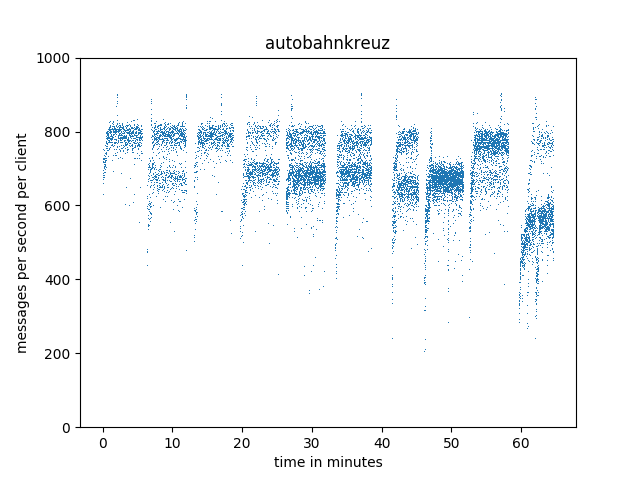
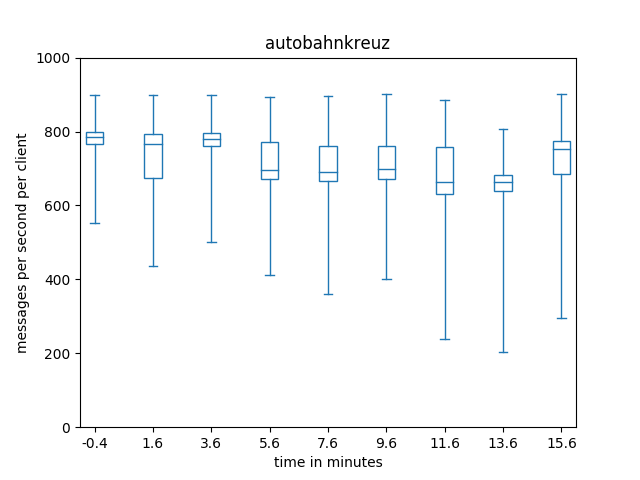
Add new scaling out plot and rearrange chapters

diff --git a/scenarios/scaling-out/plot.py b/scenarios/scaling-out/plot.py
@@ -6,18 +6,50 @@ import glob
 import numpy as np
 import matplotlib.pyplot as plt
 
+def set_box_color(bp, color):
+    plt.setp(bp['boxes'], color=color)
+    plt.setp(bp['boxes'], fill=False)
+    plt.setp(bp['whiskers'], color=color)
+    plt.setp(bp['caps'], color=color)
+    plt.setp(bp['medians'], color=color)
+
 path = sys.argv[1]
 
 for idx, filename in enumerate(glob.glob(path + "-*.csv")):
     router = re.match(r".*-(\w+).csv", filename).group(1)
 
     data = np.genfromtxt(filename, delimiter=',', names=['name', 'time', 'msgs'], dtype=None)
-    t0 = min(data['time'])
-    times = np.array([(t - t0) / 1000 / 60 for t in data['time']])
-    plt.clf()
-    plt.title(router)
-    plt.xlabel('time in minutes')
-    plt.ylabel('messages per second per client')
-    plt.ylim((0, 1000))
-    plt.plot(times, data['msgs'], label=router, marker=',', linestyle='', color="C{}".format(idx))
-    plt.savefig("{}-{}.png".format(path, router))
+    data = np.sort(data, order='time')
+    segments = [0]
+    last_time = data['time'][0]
+    for i, time in enumerate(data['time']):
+        if time - last_time > 5000:
+            segments.append(i)
+        last_time = time
+    segments.append(len(data['time']) - 1)
+    segments = list(zip(segments[:-1], segments[1:]))
+    segments = np.array([data[start:end]['msgs'] for start, end in segments])
+
+    bplot = plt.boxplot(
+        segments,
+        positions=np.array(range(len(segments))) * 2.0 + (-0.5 + 0.5 * idx),
+        sym='x',
+        vert=True,
+        patch_artist=True,
+        widths=0.45,
+        whis=[0, 100]
+    )
+    set_box_color(bplot, "C{}".format(idx))
+
+plt.plot([], c='C0', label='Autobahnkreuz')
+plt.plot([], c='C1', label='Emitter')
+plt.legend()
+
+ticks = ["{}:{}".format(i, i*2) for i in range(1, 11)]
+plt.xticks(range(0, len(ticks) * 2, 2), ticks)
+plt.xlim(-2, len(ticks) * 2)
+plt.title('messages per second for several router and client configurations')
+plt.xlabel('router instances : clients connected')
+plt.ylabel('messages per second per client')
+plt.ylim((0, 1000))
+plt.savefig("{}.png".format(path))

diff --git a/paper/paper.md b/paper/paper.md
@@ -1,42 +1,20 @@
 # Introduction
 
-For modern web pages the importance of realtime data delivery rose during the last years. This created new requirements for web applications especially where server rendered content was previously used[@RFC6202]. Technologies like AJAX, JSON-RPC, socket.io, WebSockets, and many more arose to fit the needs for realtime data delivery to the web browser. During the same time micro-services gained importance in the server backend to create scalable and robust applications. A micro-service is a minimalistic application for a single responsibility. A distributed application can be created by interconnecting the micro-services. Technologies supporting the development of micro-service infrastructures arose like gRPC, Cap'n Proto, Apache Thrift, Java RMI, and many more. As well as the web technologies, the micro-services needed realtime communication between application components on different machines.
+For modern web pages the importance of realtime data delivery rose during the last years. This created new requirements for web applications especially where server rendered content was previously used[@RFC6202]. Technologies like AJAX, JSON-RPC, socket.io, WebSockets, and many more arose to fit the needs for realtime data delivery to the web browser[??]. During the same time micro-services gained importance in the server backend to create scalable and robust applications[??]. A micro-service is a minimalistic application for a single responsibility. A distributed application can be created by interconnecting the micro-services. Technologies supporting the development of micro-service infrastructures arose like gRPC, Cap'n Proto, Apache Thrift, Java RMI, and many more[??]. As well as the web technologies, the micro-services needed realtime communication between application components on different machines.
 
-In the year 2012 WAMP (Web-Application-Messaging-Protocol) appeared as an open and free protocol which combines the requirements of a micro-service infrastructure with modern web technologies, providing a single solution for frontend and backend application development[@WAMP:2019]. It implements a publish and subscribe messaging pattern as well as routed remote procedure calls (RPCs). This enables application developers to use a unified interconnect between application components for two different messaging patterns. The protocol was primarily built on top of WebSockets[@WAMP:2019] which enables web pages inside the web browser to participate as part of the micro-service infrastructure. This makes it considerably easier for a web-page to communicate with the backend in realtime. Currently the protocol also supports other transportation layers beside WebSockets, which makes the protocol more flexible in backend application development.
+In the year 2012 WAMP (Web-Application-Messaging-Protocol) appeared as an open and free protocol which combines the requirements of a micro-service infrastructure with modern web technologies, providing a single solution for frontend and backend application development[@WAMP:2019]. It implements a publish and subscribe messaging pattern as well as routed remote procedure calls (RPCs). This enables application developers to use a unified interconnect between application components for two different messaging patterns. The protocol was primarily built on top of WebSockets[@WAMP:2019] which enables web pages inside the web browser to participate as part of the micro-service infrastructure. This makes it considerably easier for a web-page to communicate with the backend in realtime[??]. Currently the protocol also supports other transportation layers beside WebSockets, which makes the protocol more flexible in backend application development.
 
-WAMP requires a central server where all services (backend and frontend) are connected to. The server then routes topic publications and remote procedure calls to these services (clients). The applications built on this technology are implemented as components that are distributed over multiple machines that communicate with each other via WAMP. This can enable an application to be resistant against local machine failures as other machines are still hosting the application on a different location. The reference implementation router (Crossbar from Crossbar.io Technologies GmbH) runs as a single server instance on a single machine. This introduces a single-point-of-failure to a technology that was designed to be resistant against local machine failures. To counteract this, crossbar.io provides a closed-source commercial router implementation (CrossbarFX) that implements a logically central router which is physically distributed over multiple machines. There are other router implementations that also support distributing the routing application over multiple physical machines, like Bondy which is developed by Leapsight.
+# Limitations of WAMP
 
-This paper will describe the design and prototypical implementation of the Autobahnkreuz distributed WAMP routing application. The implementation will contain the publish and subscribe messaging pattern of the protocol only. However, the design will take remote procedure calls into consideration to enable the implementation of the complete base profile in a later work. The resulting routing application will be compared to the Crossbar reference implementation and to an existing cloud-native message routing application which implements the MQTT messaging protocol. The deployment size, memory usage, the message processing latency, and the availability of the routing service in a failure scenario will be compared as well as the scalability of the service when scaling the routing instances horizontally. 
+WAMP requires a central server where all services (backend and frontend) are connected to. The server then routes topic publications and remote procedure calls to these services (clients). The applications built on this technology are implemented as components that are distributed over multiple machines that communicate with each other via WAMP. This can enable an application to be resistant against local machine failures as other machines are still hosting the application on a different location. The reference implementation router (Crossbar from Crossbar.io Technologies GmbH) runs as a single server instance on a single machine. This introduces a single-point-of-failure to a technology that was designed to be resistant against local machine failures.
 
-# Sharing State
+Additionally, the routing performance is limited to the execution performance of the single host machine. When the hosts performance is too slow to handle the routing requirements of an application, the only solution is to replace the hardware of the host machine with faster alternatives. This is called scaling-up or vertical scaling. With a distributed routing application it is possible to horizontally scale or scale-out the system. This involves integrating more physical machines into the system, balancing the routing over all machines in the system. This adds an additional possibility for performance scaling to the application.
 
-The central problem when implementing a distributed application is sharing the state of one instance of the application (replica) to all other instances. The state of an application is the data that is needed for the application to define its behavior. When the state of a single application with several replicas gets out of sync, the behavior of an individual replica may differ from the behavior of other replicas. This can lead to severe damage of the underlying data, downtimes for the provided services, and even data leaks which may penetrate the security of a server.
+# A Decentralized WAMP Router
 
-## Existing Solutions
+The central problem when implementing a distributed application is sharing the state of one instance of the application to all other instances. One instance in a distributed application is called replica. The state of an application is the data that is needed for the application to define its behavior. When the state of a single application with several replicas gets out-of-sync, the behavior of an individual replica may differ from the behavior of other replicas. This can lead to severe damage of the underlying data, downtimes for the provided services, and even data leaks which may penetrate the security of a server.
 
-A possible solution to this problem is to manage the data outside of the application and let another application handle the state synchronization. There are several applications available that can manage data over multiple machines. Most notably distributed databases, key-value stores, and filesystems.
-
-### Distributed Databases and Key-Value Stores
-
-Databases and key-value stores provide a logically centralized view when accessing the stored data. This enables applications to be implemented as stateless services, that ask at the central database for the current state of the application. By storing no state in the application itself, it can be replicated by just starting several instances of the application. This works because all replicas of the application are accessing the application state via the central database. The database implementation is then responsible for distributing the state over multiple machines. There are several distributed databases available that provide exactly this functionality. E.g. PostgreSQL, MariaDB, etcd, and TiKV/TiDB.
-
-### Distributed Filesystems
-
-A distributed filesystem is a filesystem that runs on multiple machines at the same time. The files available on the filesystem are the same on every machine. When changing the files, the changes take effect on every machine that is part of the distributed filesystem. Distributed filesystems are very good at synchronizing large quantities of data between multiple machines. Examples are GlusterFS, Ceph, BeeGFS, HDFS, and AFS.
-
-### Consensus Algorithms
-
-To prevent state inconsistencies between replicas, consensus algorithms can be used to synchronize data between machines. To change the state in a cluster of multiple machines, a consensus must be reached. This can be implemented by starting an election for a state-change. The machines in the cluster must vote in the election for the state-change. A majority of the machines has to approve the state-change to take effect. Otherwise, the state-change gets rejected and a new election must be started. To prevent elections for every state-change, algorithms exist that install a leader in the cluster which is exclusively granted the right to change the state of the cluster. The leader gets elected by the cluster members when no leader is known by the members. All other members of the cluster enter a follower state, where the state changes of the leader are followed. When a follower receives a request to change the state, it has to forward the state-change to the current leader.
-
-## Other Implementations
-
-There are existing WAMP router implementations that provide cloud-native functionality. CrossbarFX is a commercial routing application by the Crossbar.io GmbH which provides cloud and large-scale routing for enterprise applications[@CFX:2019]. The router consists of two components: CrossbarFX Edge and CrossbarFX Master. The former provides local routing capabilities and edge application component management. CrossbarFX Master provides large-scale routing by connecting multiple master and edge instances.
-
-Bondy is another open source WAMP routing application written in Erlang that provides horizontal scaling. It is developed by Leapsight and uses the Partisan library for cluster membership management, Plumtree for epidemic broadcasting, and an eventual consistent data store. The application is currently under active development. At this point there exists no release of Bondy.
-
-When not focusing on the WAMP protocol, there exist many cloud-native message routing applications. Emitter is an open source MQTT routing application written in the Go programming language. It uses the Mesh library by Weaveworks to implement a highly available and partition tolerant routing application for the internet of things. MQTT is a protocol for the publish and subscribe messaging pattern which is heavily used in the internet of things. Emitter uses similar technologies to Bondy and can be used for performance comparisons when investigating publish and subscribe functionalities.
-
-## State of a Router
+## State of a WAMP Router
 
 In a setup where a WAMP router is distributed over multiple machines, the routing information for messages has to be synchronized between the router replicas. The routing information for a WAMP router consists of the following parts:
 
@@ -52,7 +30,33 @@ When a client connected to the WAMP router initiates a remote procedure call (RP
 
 As not all clients of a router are connected to the same replica, the replicas must know which replica is connected to which client. This information is used by the router to forward messages to the correct replica, so that a message reaches the desired client.
 
-## Data Transport
+## Other Implementations
+
+There are existing WAMP router implementations that provide cloud-native functionality. CrossbarFX is a commercial routing application by the Crossbar.io GmbH which provides cloud and large-scale routing for enterprise applications[@CFX:2019]. The router consists of two components: CrossbarFX Edge and CrossbarFX Master. The former provides local routing capabilities and edge application component management. CrossbarFX Master provides large-scale routing by connecting multiple master and edge instances.
+
+Bondy is another open source WAMP routing application written in Erlang that provides horizontal scaling. It is developed by Leapsight and uses the Partisan library for cluster membership management, Plumtree for epidemic broadcasting, and an eventual consistent data store. The application is currently under active development[??]. At this point there exists no release of Bondy.
+
+When not focusing on the WAMP protocol, there exist many cloud-native message routing applications. Emitter is an open source MQTT routing application written in the Go programming language. It uses the Mesh library by Weaveworks to implement a highly available and partition tolerant routing application for the internet of things[??]. MQTT is a protocol for the publish and subscribe messaging pattern which is heavily used in the internet of things[??]. Emitter uses similar technologies to Bondy and can be used for performance comparisons when investigating publish and subscribe functionalities.
+
+This paper will describe the design and prototypical implementation of the Autobahnkreuz distributed WAMP routing application. The implementation will contain the publish and subscribe messaging pattern of the protocol only. However, the design will take remote procedure calls into consideration to enable the implementation of the complete base profile in a later work. The resulting routing application will be compared to the Crossbar reference implementation and to an existing cloud-native message routing application which implements the MQTT messaging protocol. The deployment size, memory usage, and the message processing latency will be compared as well as the scalability of the service when scaling the routing instances horizontally. 
+
+# Background
+
+A possible solution for sharing the state over multiple replicas is to manage the data outside of the application and let another application handle the state synchronization. There are several applications available that can manage data over multiple machines. Most notably distributed databases, key-value stores, and filesystems.
+
+## Distributed Databases and Key-Value Stores
+
+Databases and key-value stores provide a logically centralized view when accessing the stored data[??]. This enables applications to be implemented as stateless services, that ask at the central database for the current state of the application. By storing no state in the application itself, it can be replicated by just starting several instances of the application. This works because all replicas of the application are accessing the application state via the central database. The database implementation is then responsible for distributing the state over multiple machines. There are several distributed databases available that provide exactly this functionality. E.g. PostgreSQL, MariaDB, etcd, and TiKV/TiDB[??].
+
+## Distributed Filesystems
+
+A distributed filesystem is a filesystem that runs on multiple machines at the same time. The files available on the filesystem are the same on every machine. When changing the files, the changes take effect on every machine that is part of the distributed filesystem. Distributed filesystems are very good at synchronizing large quantities of data between multiple machines[??]. Examples are GlusterFS, Ceph, BeeGFS, HDFS, and AFS[??].
+
+## Consensus Algorithms
+
+To prevent state inconsistencies between replicas, consensus algorithms can be used to synchronize data between machines. To change the state in a cluster of multiple machines, a consensus must be reached. This can be implemented by starting an election for a state-change. The machines in the cluster must vote in the election for the state-change. A majority of the machines has to approve the state-change to take effect. Otherwise, the state-change gets rejected and a new election must be started. To prevent elections for every state-change, algorithms exist that install a leader in the cluster which is exclusively granted the right to change the state of the cluster. The leader gets elected by the cluster members when no leader is known by the members. All other members of the cluster enter a follower state, where the state changes of the leader are followed. When a follower receives a request to change the state, it has to forward the state-change to the current leader[??].
+
+# Solution Concept
 
 Besides the state needed for the routing, there is other data that must be transferred between router replicas. Publications and procedure calls contain a message body in which parameters and payloads are stored. When forwarding a publication or procedure call to another client, this data must be potentially transferred to another replica. The frequency and size of a topic publication payload can get quite high. Therefore it is undesirable to initiate a state change for publications and RPCs. Instead of routing every publications and RPC over the leader of the cluster, the payload can be transferred directly between the replicas that manage affected clients. This is possible as neither publications nor RPCs contain information that is relevant for the routing.
 
@@ -102,7 +106,9 @@ Autobahnkreuz was deployed in Kubernetes where a domain name service (DNS) is us
 
 The WAMP protocol implementation was taken from an existing WAMP routing application called Wampire. The remote procedure call implementation was removed from the source code, and the state management for subscriptions and sessions was moved to a central instance. A serialization and deserialization based on `msgpack` was implemented for the data objects needed for subscription and session management. To enable the synchronization of this data between multiple nodes, the `Machine` and `MachineCore` traits were implemented. These implementations are passed to a `Node` instance during the startup of the WAMP router enabling state synchronization via the Raft consensus algorithm. Autobahnkreuz is successfully using the `simple-raft-node` library to convert Wampire into a distributed WAMP routing application.
 
-# Deployment
+# Validation
+
+## Test Setup
 
 The network setup for Autobahnkreuz is more complex than other single-node router network setups. To reduce the network administration tasks when deploying an instance of Autobahnkreuz, a Kubernetes deployment was implemented. Kubernetes provides a declarative language for network and configuration setups of docker containers. By using Kubernetes for the network setup, the deployment gets reproducible and scalable. Docker containers are used to isolate the application components from the host operating system. Each docker container has its own root filesystem with its own GNU/Linux distribution. Containers only share the operating system kernel with the host system and other containers. To make communication with other containers possible, filesystem entries and network ports can be exposed by a container[@DOCKER:2019]. For Autobahnkreuz only two TCP ports are exposed.
 
@@ -110,11 +116,11 @@ A process from within a Docker container cannot access data outside the containe
 
 In order to connect all router replicas with each other, the leader tells all other replicas behind which domain or IP each replica is running. Kubernetes uses a domain name service (DNS) to resolve domains inside the cluster for each replica. Additionally, when launching a new replica, these domain names can be used to initiate an initial connection with the cluster. However, during the development of the Kubernetes deployment, a bug[^coredns-bug] was found in the DNS of Kubernetes (coredns). The bug is appearing within the first 30 seconds after startup of a replica. During these 30 seconds, new domain names will sometimes result in `NXDOMAIN` or `REFUSED`. This leads to an unstable startup of new replicas. The bug is reported upstream and confirmed. Autobahnkreuz resolves this issue by issuing DNS lookups until the lookup succeeds.
 
-# Evaluation
+## Performance
 
 Autobahnkreuz was implemented as a prototypical implementation to prove the feasibility of a distributed WAMP routing application. It was planned to have incomplete WAMP protocol support and expected to be inferior to existing cloud-native routing applications. Five scenarios were designed to evaluate the success of this project by comparing Autobahnkreuz to Crossbar and Emitter. The scenarios take the previously set goals for this project into account. A virtual machine hosted by VirtualBox where a `k3s` Kubernetes setup was running with 8 gigabytes of RAM and one CPU core was used to execute the scenarios. The virtual machine was running on an Intel Core i7-6700HQ host CPU.
 
-## Container Size
+### Container Size
 
 ![The container size scenario compares the size of the latest Docker image from Docker Hub\label{containersize}](../scenarios/container-size/plots/2019-06-16T17:58:45+02:00-scenario-pod-size.png)
 
@@ -122,13 +128,15 @@ The container size is an indicator for the attack surface of a container. The lo
 
 The container size scenario (Figure \ref{containersize}) checks the size of the latest docker container that is provided on the Docker Hub. Docker Hub is a central registry for docker containers. Autobahnkreuz is not using a GNU/Linux distribution at all, instead a single statically linked binary is contained in the container. Emitter's Docker containers are based on a Linux distribution that is not using the GNU tools and instead is using Musl libc and Busybox. Alpine is a focused on security while being a lightweight Linux distribution that is often used for docker deployment due to the small footprint[@ALPINE:2018]. Crossbar's docker containers are based on the Debian GNU/Linux distribution which accounts for the large container size. Crossbar does not include the complete userland of Debian but a trimmed down version called `debian-slim` which omits documentation files and other optional resources when installing new packages.
 
-## RAM Usage
+### RAM Usage
 
 ![The RAM usage scenario measures the overall memory consumption of the routers while 10 clients are communicating over the routers\label{ramusage}](../scenarios/ram-usage/plots/2019-06-17T12:09:43+02:00-scenario-ram-usage.png)
 
 When running multiple instances of a single application inside a cluster environment it is preferable to have a low memory footprint to reduce additional costs associated with the scaling of application instances. The RAM usage scenario (Figure \ref{ramusage}) measures the total memory consumption of all replicas where five replicas of Emitter and Autobahnkreuz were running. Crossbar was running as a single instance as the open source version does not support running replicas. During the scenario 10 clients were sending and receiving topic publications every 100 milliseconds. Autobahnkreuz shows the lowest memory consumption, which was expected as Rust uses manual memory management without a garbage collection. Emitter is written in the Go programming language and therefore uses a garbage collection for memory management. The highest memory consumption is observed from Crossbar. Crossbar is written in Python where the source code has to be interpreted at runtime. Therefore the memory consumption is considerably higher.
 
-## High Message Throughput
+> TODO: increase clients gradually to see impact on memory consumption
+
+### High Message Throughput
 
 ![The high message troughput scenario lets 10 clients publish topics as fast as possible to all other clients. The latency until a publication is singaled as published is measured.\label{highload}](../scenarios/high-load/plots/2019-06-17T14:19:34+02:00-scenario-high-load.png)
 
@@ -136,15 +144,9 @@ The high message throughput scenario (Figure \ref{highload}) measures the latenc
 
 A higher latency for topic publications is expected from routers running in replicated setups as messages may get routed to other physical machines. However, Autobahnkreuz has about the same response time as Crossbar. By using a programming language that is compiling to native code, Autobahnkreuz counteracts the drawbacks of running in a replicated setup when compared to Crossbar. The source for the higher latency of publication responses in Emitter can be due to the use of a different client library implementation.
 
-## Availability
+> TODO: increase clients gradually to see impact on throughput
 
-![The availability scenario lets a random router replica fail every 30 seconds while 10 clients are continuously trying to get a connection to the router\label{availability}](../scenarios/availability/plots/2019-06-16T18:35:30+02:00-scenario-availability.png)
-
-When running a distributed application inside a cluster setup, failures of single replicas should not affect the availability of the provided service as other replicas can take over the traffic of the failed node. The cluster orchestrator can then launch a new replica to replace the failed one. The availability scenario (Figure \ref{availability}) tests if the routing service stays available if replicas are failing. For this scenario, routers that support replication were running with five replicas. To check the availability, 10 clients are each trying to connect to the router every second. The test kills a random replica every 30 seconds and waits until the deletion of the replica has finished.
-
-Emitter is handling the replica failures flawlessly, while Crossbar is unavailable every 30 seconds. This is expected as Crossbar is running as a single application instance. Autobahnkreuz however crashes after 10 seconds into the test as new members in the routing cluster are accepting connections while not synchronized to the cluster. The new router is then trying to commit a state-change proposal which will most likely be accepted. However, to the time the state-change commit is received by the new replica, the connection of the client has timed out. The timeout occurs because each new router must catch up with the log of the cluster which takes some time. Additionally, the new member is following old log entries where other nodes may have been leader of the cluster. As they may not be leader any more, heartbeat messages are not received. The new node assumes that the leader has failed and starts a new leader election. This destabilizes the cluster and causes the replicas to be unresponsive to client connections. The autobahnkreuz implementation fails to provide the expected availability! As this bug is caused by a misbehaving implementation and has not its cause in the design of the router, it can be fixed by checking the progress of the synchronization of new replicas. Additionally, a readiness probe must be installed to inform Kubernetes about the ability of a replica to accept connections.
-
-## Scaling-Out
+### Scaling-Out
 
 ![The Autobahnkreuz WAMP router running the scaling-out scenario as described in the [Scaling-Out](#scaling-out) chapter.\label{scalingoutautobahnkreuz}](../scenarios/scaling-out/plots/2019-06-26T10:37:39+02:00-scenario-scaling-out-autobahnkreuz.png)
 
@@ -164,7 +166,7 @@ The project is considered to be a success. The complete source code of this work
 
 # Future Work
 
-It is planned to continue the development of the Autobahnkreuz routing application. The development will focus on fixing the availability issue described in this work and completing the WAMP base profile by supporting remote procedure call routing. Additionally, the connection management algorithms of the `simple-raft-node` library can be moved to a new library, making the reuse of this code easier in other projects.
+It is planned to continue the development of the Autobahnkreuz routing application. The development will focus on fixing the avail1ability issue described in this work and completing the WAMP base profile by supporting remote procedure call routing. Additionally, the connection management algorithms of the `simple-raft-node` library can be moved to a new library, making the reuse of this code easier in other projects.
 
 For real-world applications, the WAMP specification includes extensions to the protocol which introduce new mechanisms and APIs besides the publish/subscribe and remote procedure call messaging patterns. This makes the existing routing applications very complex and hard to maintain. To counteract this, all extensions to the base WAMP profile can be implemented as plugins to the router. A plugin API for a distributed application where the plugins have to manage their state over multiple machines can be designed as a follow-up work. Autobahnkreuz would then be capable of serving subsets of the advanced WAMP profile on demand. This is especially beneficial for a distributed routing application as only the state of WAMP features which the user is actually using must to be synchronized between router replicas. This can lower the amount of data that is synchronized in the cluster for a specific micro-service application.
 
